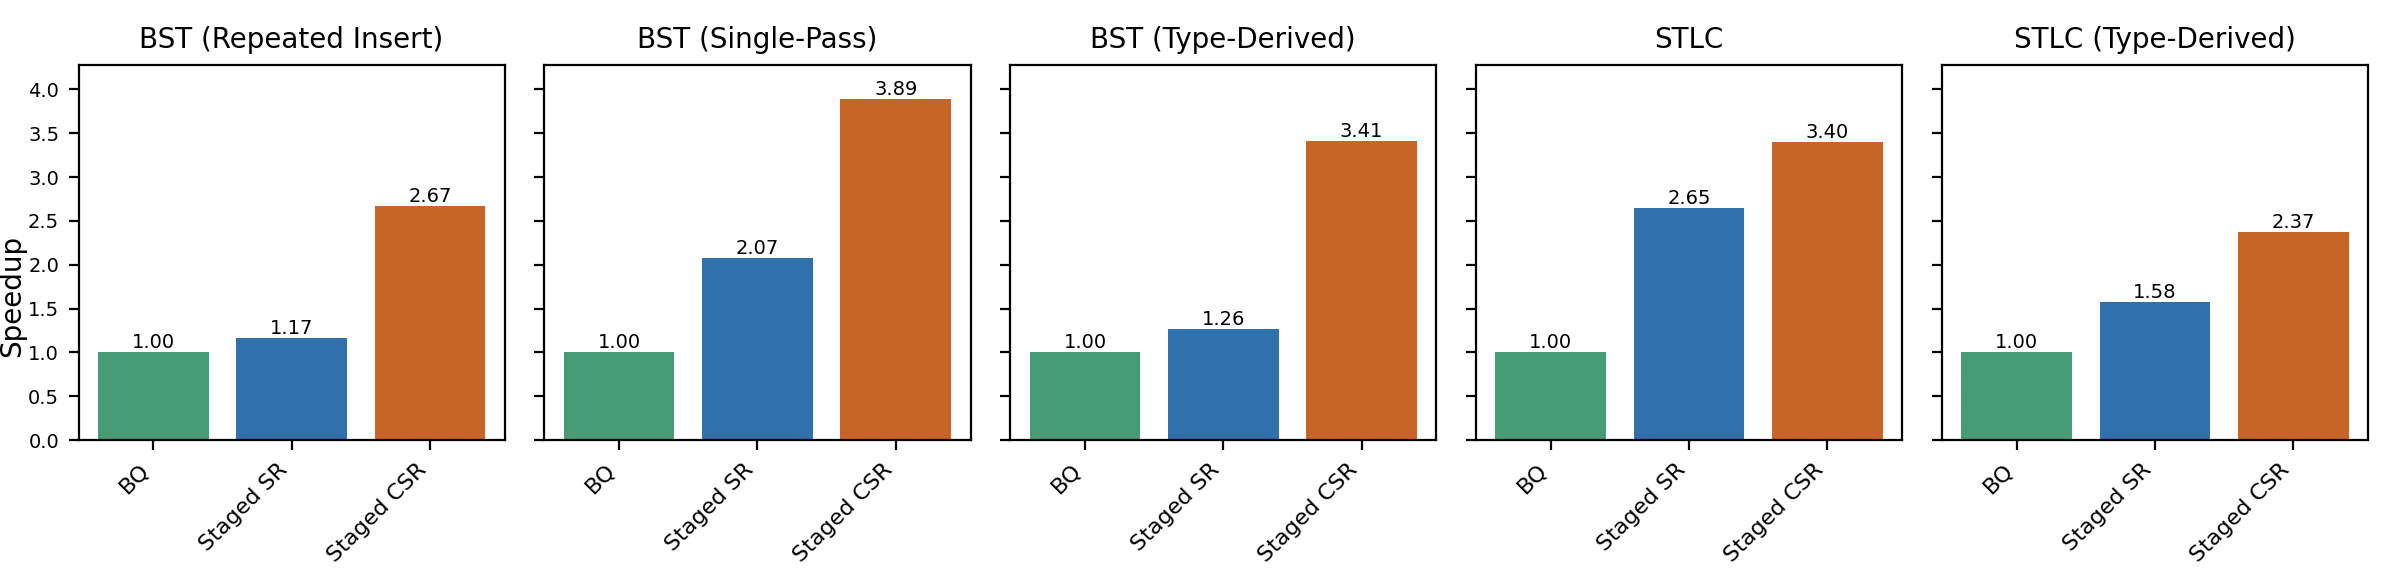
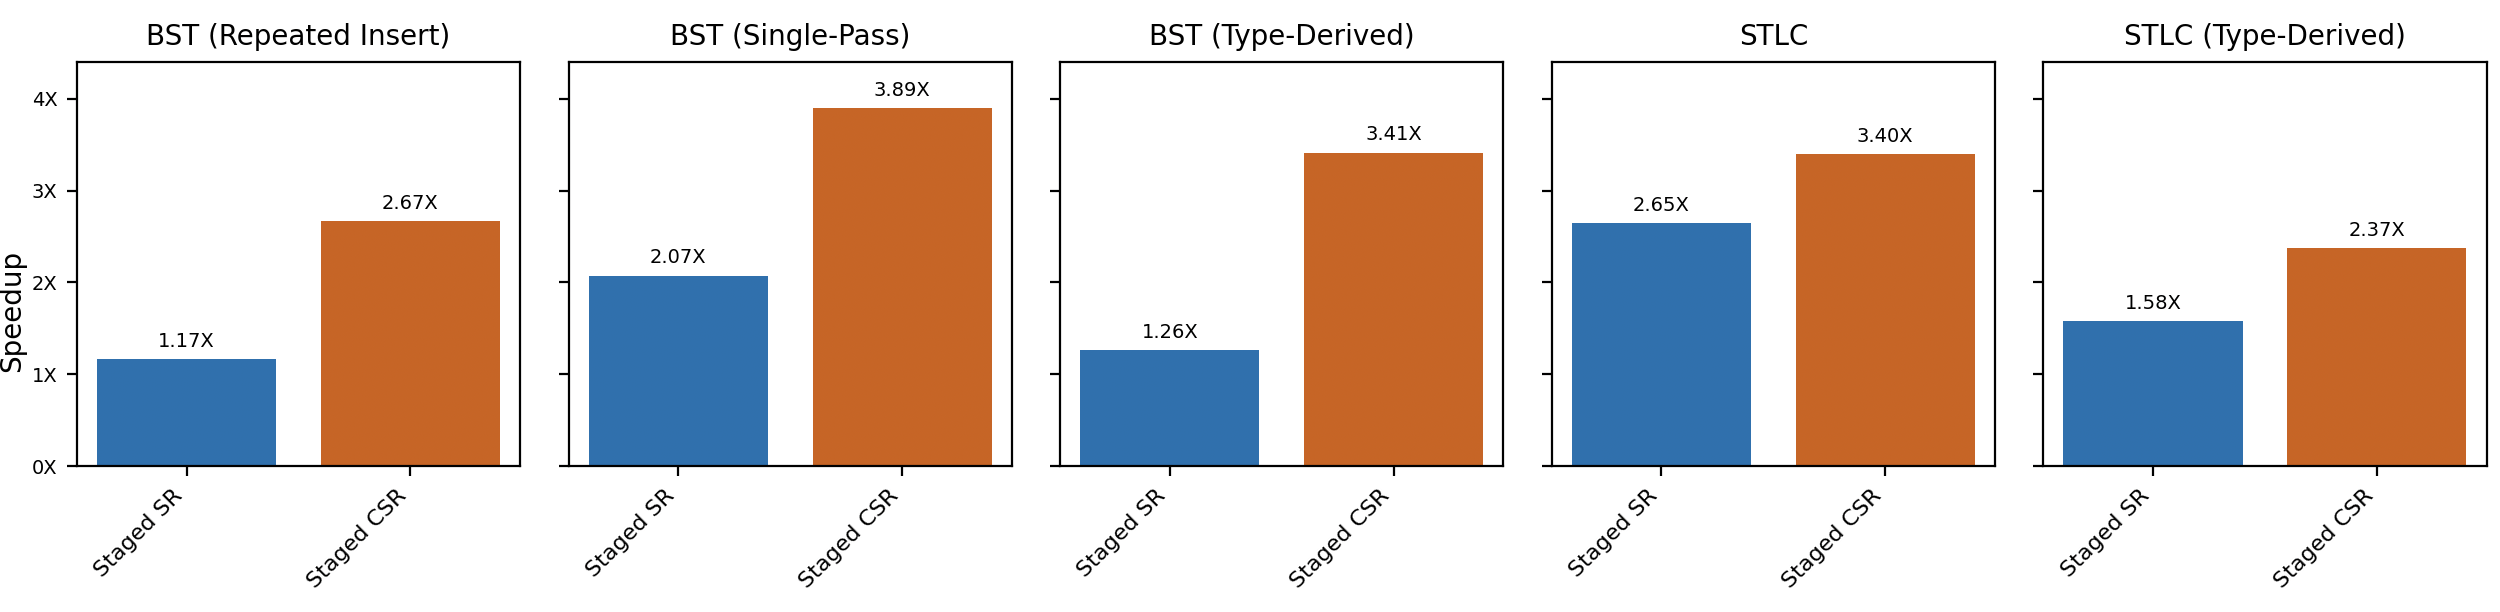
figure pass

diff --git a/paper/paper.tex b/paper/paper.tex
@@ -1468,7 +1468,7 @@ workloads.
 
 \begin{figure}[h]
   \centering
-  \includegraphics[scale=0.32]{scala.png}
+  \includegraphics[scale=0.4]{scala.png}
  \caption{
   \jwc{Don't explain the chart in the caption, split this into two different charts --- purple on one, green on the other.}
   \jwc{Also can we use the language's colors for this?}
@@ -1498,7 +1498,7 @@ set of \textit{tasks}, where a task consists of a specific bug-property pair
 designed to test different aspects of the system (e.g., BST includes tasks that
 test insertion, deletion, and union operations on binary search trees). 
 In particular, BST has 37 tasks, and STLC has 20. Strategies for BST and STLC 
-are implemented in 
+are implemented in
 \camlname; they are unchanged from their description in \secref{subsection:benchmarking}.\footnote{Etna does 
 not support Scala, so we were unable to test \scalaname's bug-finding speed in Etna, but we
 we see no reason our results in this section would not extend to \scalaname.}
@@ -1545,14 +1545,14 @@ range of 4--9X, whereas tasks that run on the order of seconds achieve more mode
 Overall, 
 these results give strong evidence that \camlname consistently benefits bug-finding speed, sometimes drastically.
 \begin{figure}[h]
-  \includegraphics[scale=0.333]{speedup.png}
+  \includegraphics[scale=0.3]{speedup.png}
   \caption{Geometric average of all speedups---relative to BQ---for each strategy and benchmark, showing that staging leads to better bug-finding speed across the board.
   \jwc{Charts start at one? Can eliminate the BQ bar}
   }
   \label{fig:etna}
 \end{figure}
 \begin{figure}[h]
-  \includegraphics[scale=0.35]{swarm.png}
+  \includegraphics[scale=0.25]{swarm.png}
   \caption{Swarm distribution of individual-task speedups across strategies and benchmarks---gray dots represent tasks. Plots with extremely low variance have no swarm overlay; in plots with high variance, outliers correspond to large speedups. \tr{Make mean higher-contrast.}}
   \label{fig:swarm}
 \end{figure}
